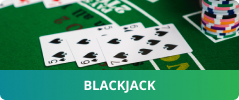
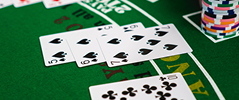
исправление

diff --git a/index.html b/index.html
@@ -562,10 +562,13 @@
              <a href="#" class="button sidebar__button">get bonus</a>
              </div>
              <div class="sidebar__cards">
-                <a href="#"><img src="./images/sidebar/blackjack.png" width="115" alt="blackjack" title></a>
-              <a href="#"><img src="./images/sidebar/roulette.png" width="115" alt="roulette" title></a>
+              <a href="#"><img src="./images/sidebar/blackjack.png" width="115" alt="blackjack" title>
+                <div class="sidebar__text">Blackjack</div></a>
+              <a href="#"><img src="./images/sidebar/roulette.png" width="115" alt="roulette" title>
+              <div class="sidebar__text sidebar__text-first">Roulette</div></a>
              
-             <a href="#"><img src="./images/sidebar/slots.png" width="240" alt="slots" title></a>
+             <a href="#"><img src="./images/sidebar/slots.png" width="240" alt="slots" title>
+              <div class="sidebar__text sidebar__text-last">Slots</div></a>
              </div>
         </aside> 
         <div class=""  onclick="scrollToTop()">

diff --git a/css/main.css b/css/main.css
@@ -728,6 +728,43 @@ html{
         height: 100%;
       }
       
+
+      .sidebar__cards a img{
+        position: relative;
+        width: 100%;
+        height:auto;
+        display: block;
+        border-top-left-radius: 6px;
+        border-top-right-radius: 6px;
+        border-radius: 6px;
+        
+      }
+      
+      .sidebar__text{
+        position: absolute;
+        bottom:-5px;
+        background: linear-gradient(90deg, #0C8B97 0%, #2DB155 100%);
+
+        padding: 8px 83.3px;
+        border-bottom-left-radius: 6px;
+        border-bottom-right-radius: 6px;
+        color:#ffffff;
+        font-weight: 700;
+        font-size: 13px;
+        line-height: 17.7px;
+        text-transform: uppercase;
+        overflow: hidden;
+        
+      }
+      
+      .sidebar__text-first{
+        padding: 8px 88px;
+      }
+      
+      .sidebar__text-last{
+        padding: 8px 100.4px;
+      }
+      
       
     
     /* -----------hero ----------- */
